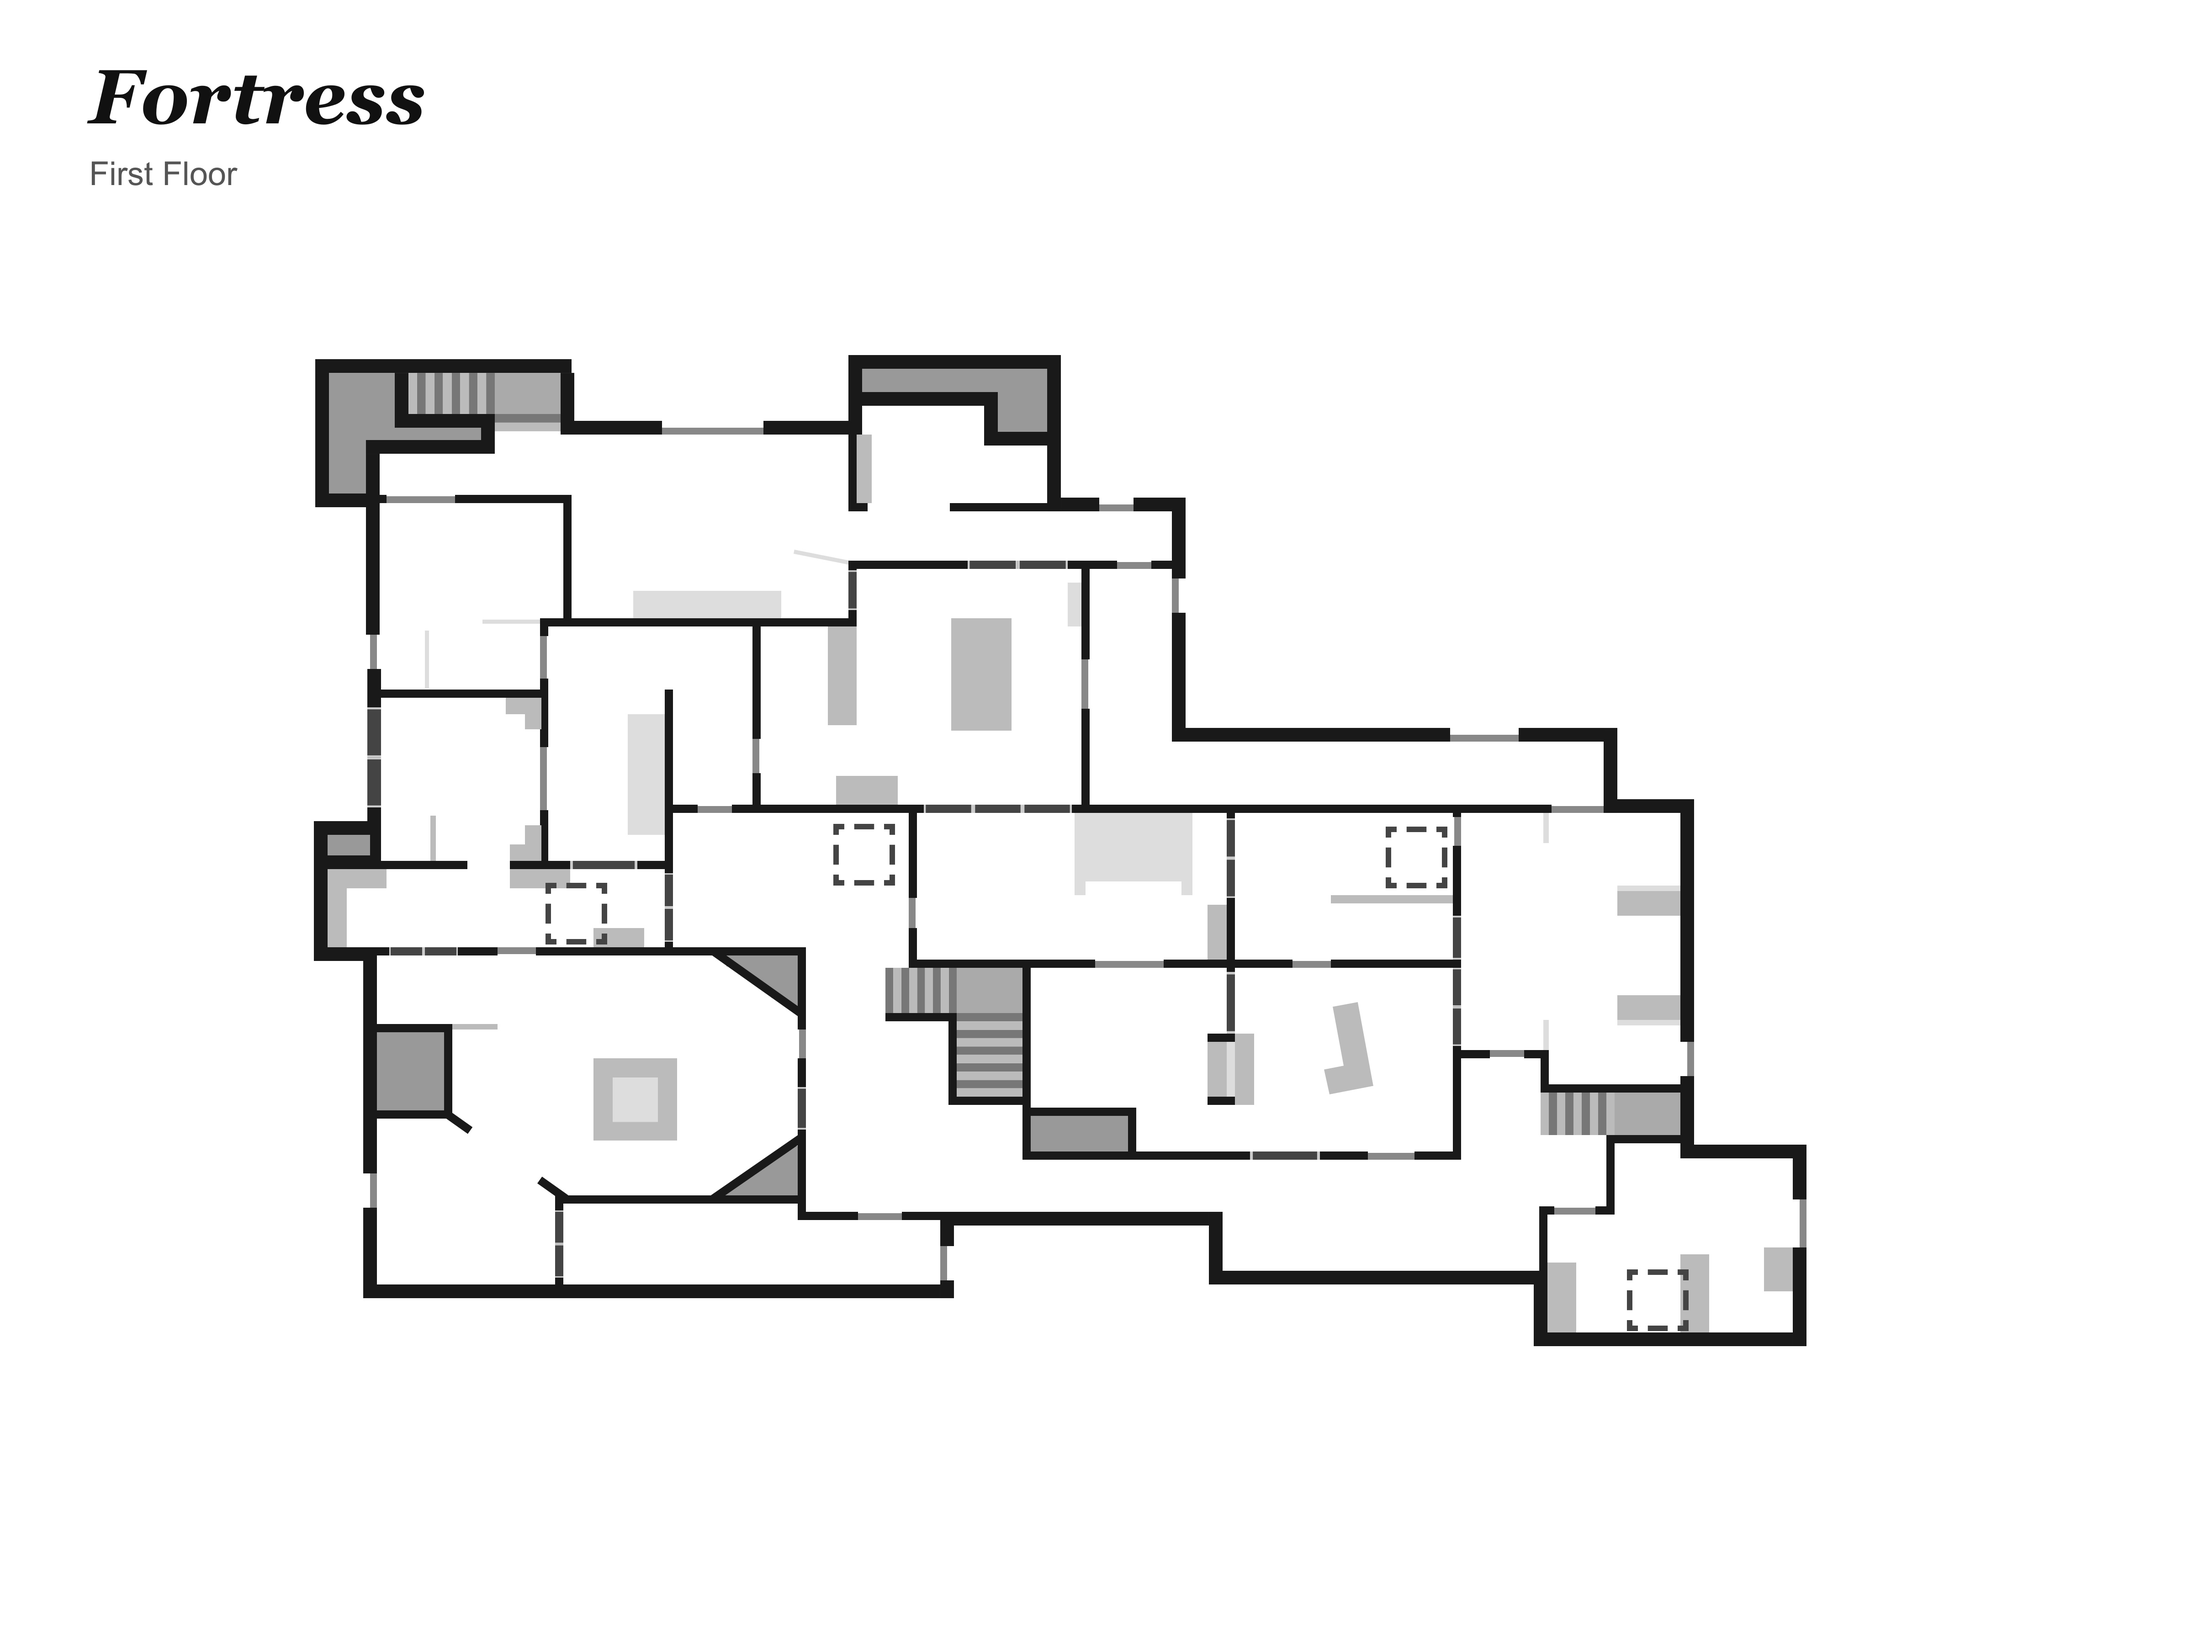
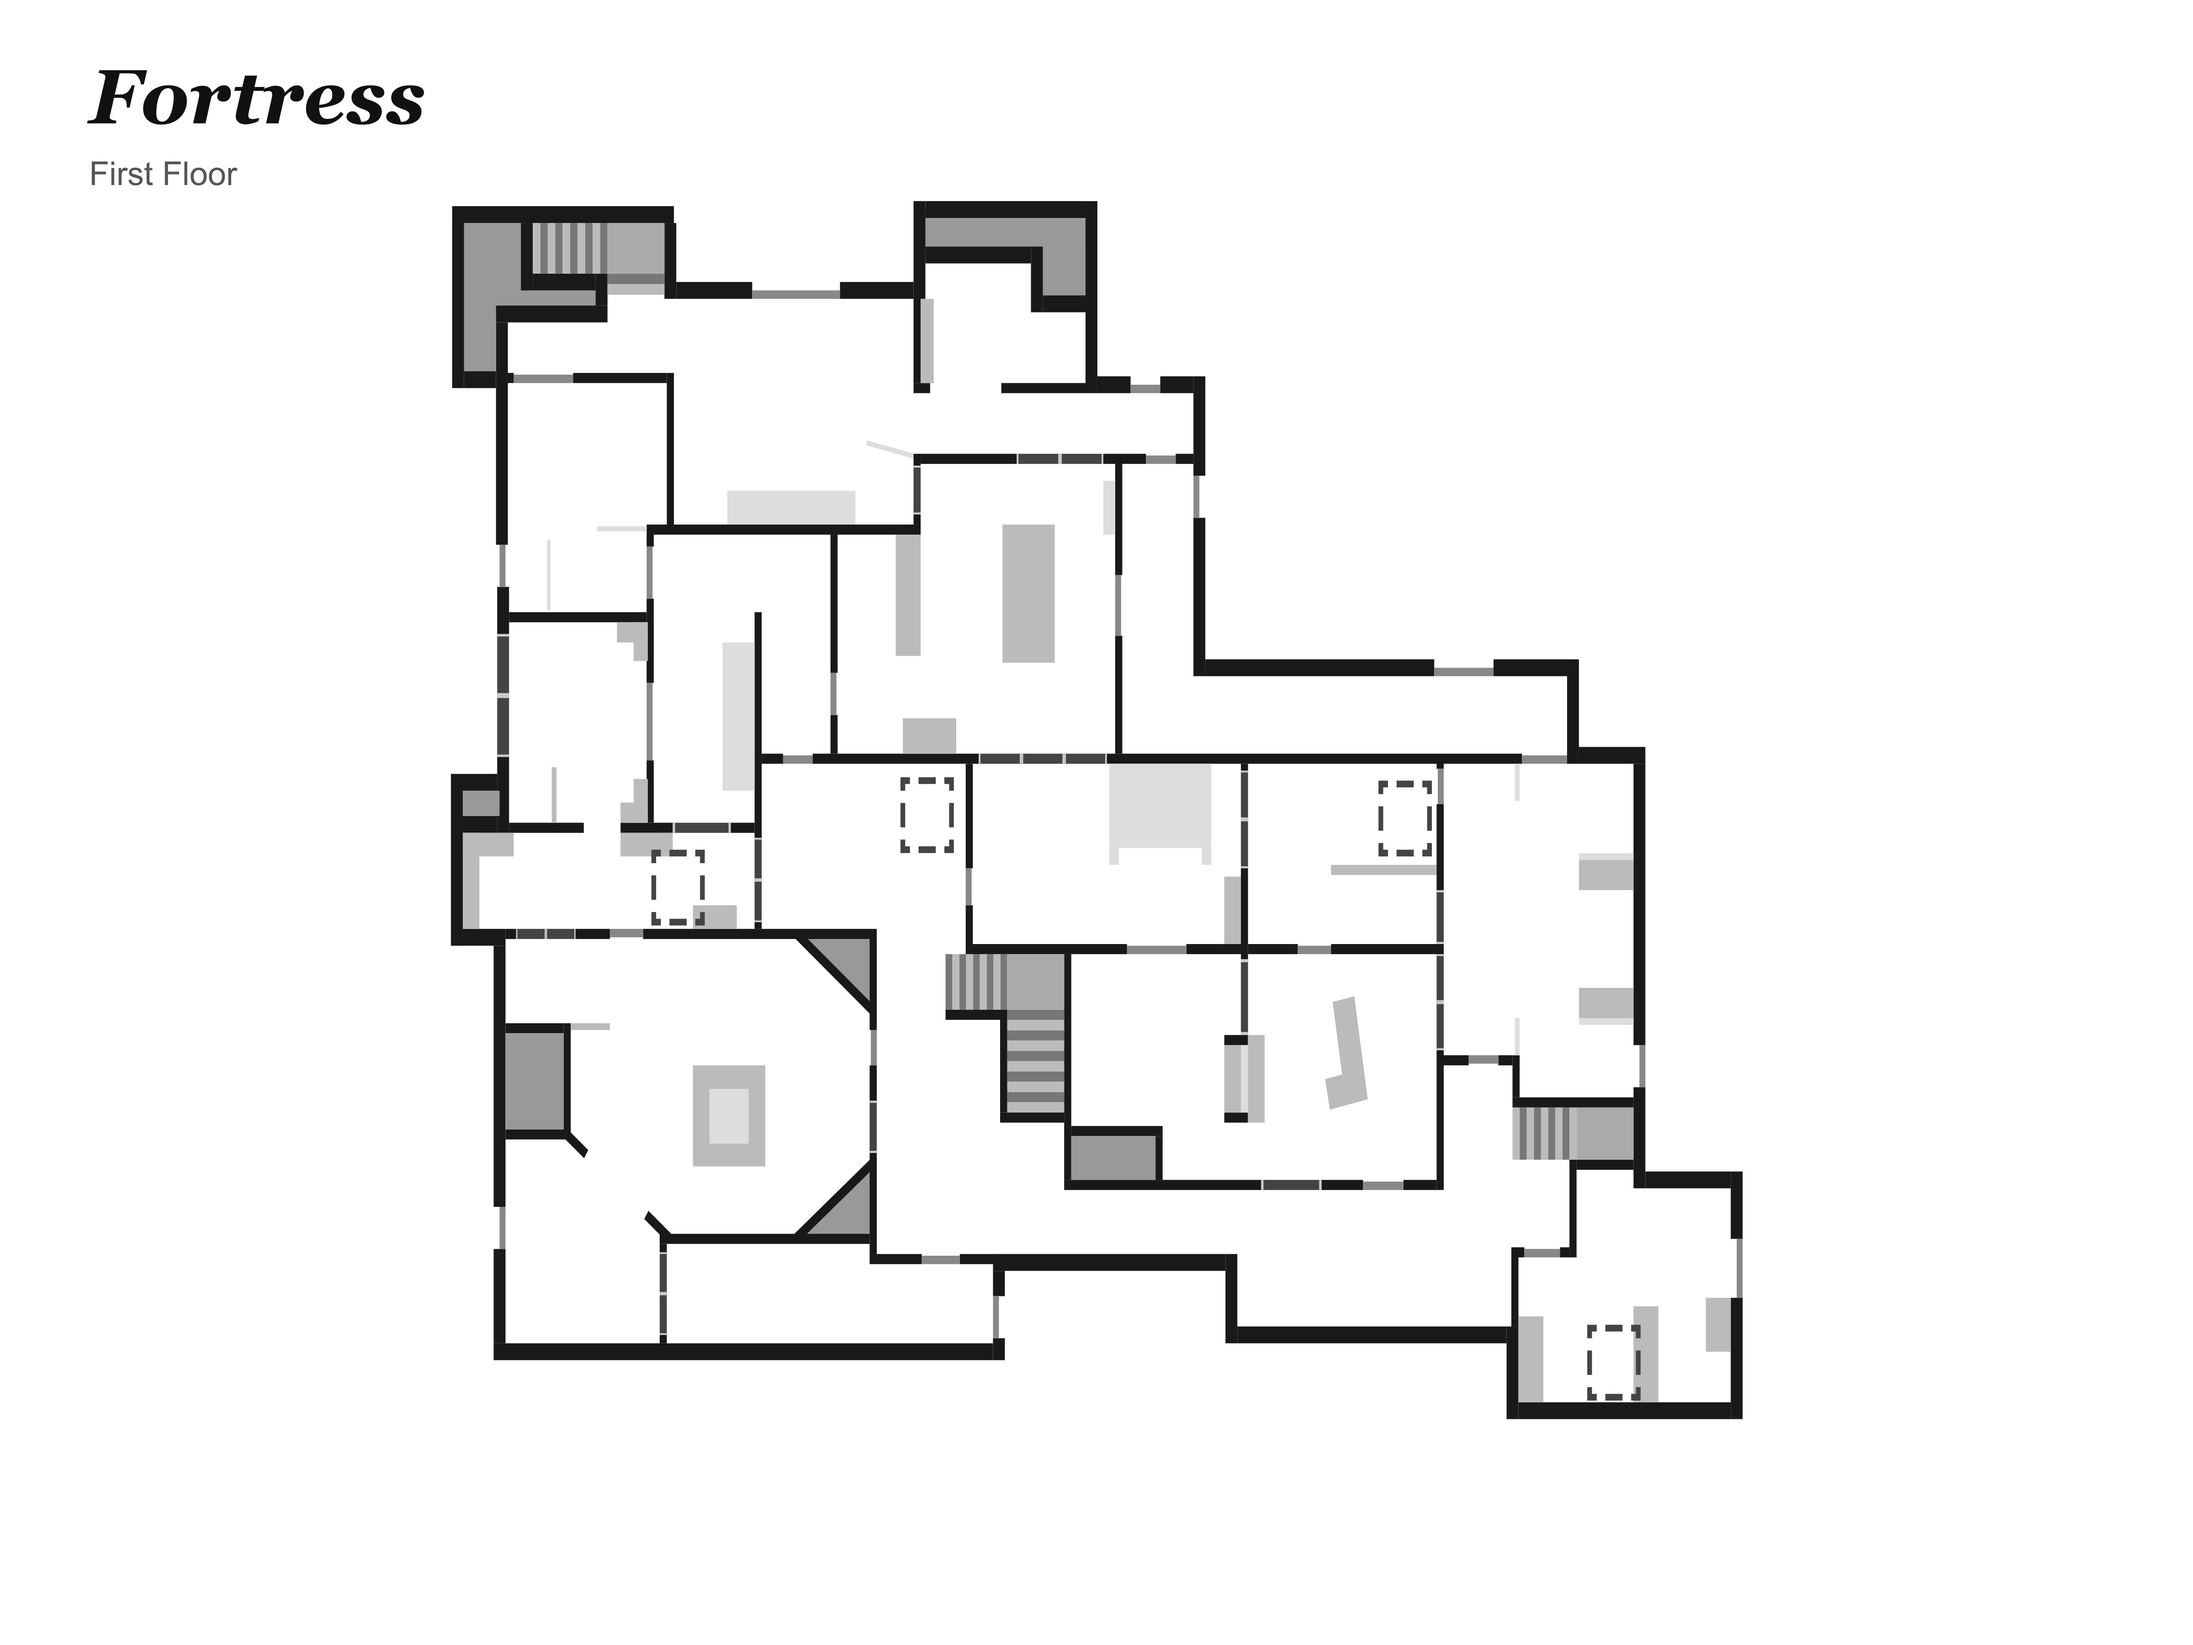
Rescale Fortress floors to true proportions and add 2F south-east stairs
Replay movement shows the Stratbook drawings compressed north-south by 1.42
and the second floor drawn at 0.90x the first floor on its own offset. Both
SVGs now share one isotropic frame (54 px/m), so floor switching lines up,
and the second floor gets the U-stair the tracks climb in its south-east
stairwell. Callouts move with the drawing.

Changed region(s): [[0.125, 0.1244, 0.8438, 0.8711]]

diff --git a/docs/content.md b/docs/content.md
@@ -47,6 +47,18 @@
 
 Villaの構造変更は地下のみのため、2階・1階はSternab氏の`VillaTopFloorBW.jpg`と`VillaGroundFloorBW.jpg`を使用します。追加5階層の背景は全て`unverified`で、日本語名称は未登録で、英語名称は出典付きの草案として登録しています。新しい出典に対する利用許諾を取得済みと主張するものではありません。第三者の図にコードのライセンスは適用しません。
 
+## リプレイデータによる縮尺・位置の補正
+
+2026-10-28 JSTに、競技マップの背景をプロ試合のリプレイから得た移動データ（ゲーム内のメートル座標）と照合しました。図の誤りが2つ以上の独立した方法で確認でき、補正前後の比較図でも確認できた階層だけを補正しています。方法は、壁を挟んだ移動の空白帯（壁の中心線）、階段を上り下りする軌跡、準備フェーズの防衛側の位置、階層間の壁の画像位置合わせです。
+
+補正した階層は、同じマップの全階層を1つの等方的な縮尺と同じ位置に揃えます。階層を切り替えても建物が動かず、縦横比が実際と一致します。名称の座標は画像と同じ変換で移動しています。
+
+| マップ | 補正前 | 補正内容 |
+| --- | --- | --- |
+| Fortress | 南北方向が1.42倍に圧縮。2階は1階の0.90倍の縮尺で別の位置。2階南東の階段がない | 両階層のSVGを同じ縮尺（54 px/m、4800×3600）へ変換。2階南東にU字階段を追加 |
+
+SVGの階層は、元の図形を保ったまま外側の`world-scale`グループで変換しています。JPEGはsharpでSVGを白背景に合成して書き出します。Fortress・Villa地下は品質95、アジトは品質98で、いずれも色差4:4:4です。
+
 ## 英語の名称
 
 `englishCallouts`は日本語の`callouts`と別の配列です。英語の表示は初期状態では無効です。収録範囲、出典、確認状況、データ形式は[英語の名称と出典](english-callouts.md)を参照してください。
